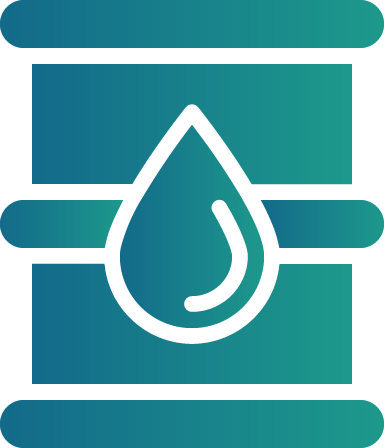
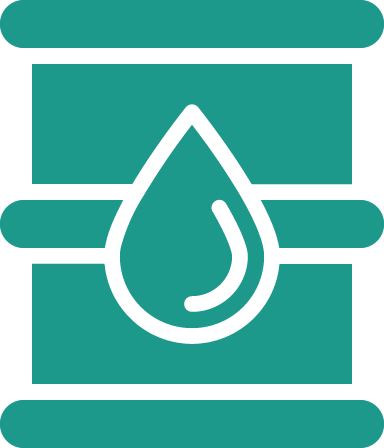
Haciendo nuevos cambios comos textos, imagenes, colores

diff --git a/index.html b/index.html
@@ -11,7 +11,7 @@
     <meta name="keywords" content="" />
     <meta name="author" content="Themesdesign" />
 
-    <link rel="shortcut icon" href="images/favicon.ico">
+    <link rel="shortcut icon" href="images/favicon.png">
 
     <!-- google font -->
     <link href="https://fonts.googleapis.com/css?family=Raleway:400,500,600,700" rel="stylesheet">
@@ -47,8 +47,8 @@
         <div class="container">
             <!-- LOGO -->
             <a class="navbar-brand logo text-uppercase" href="index.html">
-                    <img src="images/logopetram-letrablanca.png" class="logo-light" alt="" height=50">
-                    <img src="images/logopetram.png" class="logo-dark" alt="" height="50">
+                    <img src="images/isotipo-blanco.png" class="logo-light" alt="" height=50">
+                    <img src="images/Asset6.png" class="logo-dark" alt="" height="50">
                 </a>
             <button class="navbar-toggler" type="button" data-toggle="collapse" data-target="#navbarCollapse" aria-controls="navbarCollapse" aria-expanded="false" aria-label="Toggle navigation">
                 <i class="mdi mdi-menu"></i>
@@ -157,7 +157,10 @@
                 <div class="col-lg-4">
                     <div class="agency-services-box text-center p-3">
                         <div class="agency-services-icon mt-3">
-                            <img src="images/Asset2.png" alt="" style="width: 70px;">
+                            <a href="javascript:void(0);">
+                                <img src="images/Asset3.png" alt="" style="width: 70px;" class="imagen">
+                            </a>
+                            
                         </div>
                         <h5 class="f-15 mt-4 text-uppercase letter-spacing_2">Well log analysis</h5>
                         <p class="mt-4 text-muted">Consectetur adipisci a numquam tempora incidunt labore dolore magnam auam quaerat voluptatem.</p>
@@ -167,7 +170,9 @@
                 <div class="col-lg-4">
                     <div class="agency-services-box text-center p-3">
                         <div class="agency-services-icon mt-3">
-                            <img src="images/Asset1.png" alt="" style="width: 50px;">
+                            <a href="javascript:void(0);">
+                                <img src="images/Asset1.png" alt="" style="width: 50px;" class="imagen">
+                            </a>
                         </div>
                         <h5 class="f-15 mt-4 text-uppercase letter-spacing_2">Pre-stack depth migration</h5>
                         <p class="mt-4 text-muted">Consectetur adipisci a numquam tempora incidunt labore dolore magnam auam quaerat voluptatem.</p>
@@ -177,7 +182,9 @@
                 <div class="col-lg-4">
                     <div class="agency-services-box text-center p-3">
                         <div class="agency-services-icon mt-3">
-                            <img src="images/Asset3.png" alt="" style="width: 90px;">
+                            <a href="javascript:void(0);">
+                                <img src="images/Asset2.png" alt="" style="width: 90px;" class="imagen">
+                            </a>
                         </div>
                         <h5 class="f-15 mt-4 text-uppercase letter-spacing_2">Fracture Intensity maps.</h5>
                         <p class="mt-4 text-muted">Consectetur adipisci a numquam tempora incidunt labore dolore magnam auam quaerat voluptatem.</p>
@@ -300,8 +307,8 @@
                 <div class="portfolioContainer row">
                     <div class="col-lg-4 natural personal">
                         <div class="portfolio-box">
-                            <a class="mfp-image" href="images/works/work-1.jpg" title="">
-                                <img src="images/works/work-1.jpg" class="img-fluid" alt="">
+                            <a class="mfp-image" href="images/works/work-1.png" title="">
+                                <img src="images/works/work-1.png" class="img-fluid" alt="">
                             </a>
                             <div class="gallary-title bg-light p-4">
                                 <h6 class="text-uppercase"><a href="#" class="f-15 letter-spacing_2">The Usefulness</a></h6>
@@ -313,8 +320,8 @@
 
                     <div class="col-lg-4 creative personal photography">
                         <div class="portfolio-box">
-                            <a class="mfp-image" href="images/works/work-2.jpg" title="">
-                                <img src="images/works/work-2.jpg" class="img-fluid" alt="">
+                            <a class="mfp-image" href="images/works/work-2.png" title="">
+                                <img src="images/works/work-2.png" class="img-fluid" alt="">
                             </a>
 
                             <div class="gallary-title bg-light p-4">
@@ -327,8 +334,8 @@
 
                     <div class="col-lg-4 natural creative">
                         <div class="portfolio-box">
-                            <a class="mfp-image" href="images/works/work-3.jpg" title="">
-                                <img src="images/works/work-3.jpg" class="img-fluid" alt="">
+                            <a class="mfp-image" href="images/works/work-3.png" title="">
+                                <img src="images/works/work-3.png" class="img-fluid" alt="">
                             </a>
 
                             <div class="gallary-title bg-light p-4">
@@ -341,8 +348,8 @@
 
                     <div class="col-lg-4 personal photography">
                         <div class="portfolio-box">
-                            <a class="mfp-image" href="images/works/work-4.jpg" title="">
-                                <img src="images/works/work-4.jpg" class="img-fluid" alt="">
+                            <a class="mfp-image" href="images/works/work-4.png" title="">
+                                <img src="images/works/work-4.png" class="img-fluid" alt="">
                             </a>
 
                             <div class="gallary-title bg-light p-4">
@@ -355,8 +362,8 @@
 
                     <div class="col-lg-4 creative photography">
                         <div class="portfolio-box">
-                            <a class="mfp-image" href="images/works/work-5.jpg" title="">
-                                <img src="images/works/work-5.jpg" class="img-fluid" alt="">
+                            <a class="mfp-image" href="images/works/work-5.png" title="">
+                                <img src="images/works/work-5.png" class="img-fluid" alt="">
                             </a>
 
                             <div class="gallary-title bg-light p-4">
@@ -369,8 +376,8 @@
 
                     <div class="col-lg-4 natural creative">
                         <div class="portfolio-box">
-                            <a class="mfp-image" href="images/works/work-6.jpg" title="">
-                                <img src="images/works/work-6.jpg" class="img-fluid" alt="">
+                            <a class="mfp-image" href="images/works/work-6.png" title="">
+                                <img src="images/works/work-6.png" class="img-fluid" alt="">
                             </a>
 
                             <div class="gallary-title bg-light p-4">
@@ -416,70 +423,56 @@
             <div class="row justify-content-center">
                 <div class="col-lg-8">
                     <div class="home-title text-center">
-                        <h2 class="home-title-title letter-spacing_4 text-uppercase">Smart Team</h2>
+                        <h2 class="home-title-title letter-spacing_4 text-uppercase">Management Team</h2>
                         <p class="home-title-desc text-muted mt-4">Pellentesque habitant morbi tristique senectus malesuada fames turpis egestas duis dignissim finibus commodo nibh malesuada sollis diam.</p>
                     </div>
                 </div>
             </div>
 
             <div class="row mt-5 pt-3">
-                <div class="col-lg-4">
+                <div class="col-lg-6">
                     <div class="team p-4 text-center mt-4">
                         <div class="agency-team-img">
                             <img src="images/users/user-1.jpg" class="img-fluid rounded-circle" alt="">
                         </div>
-                        <h5 class="mt-4 text-uppercase letter-spacing_2 f-15">Rayner Díaz</h5>
-                        <p class="text-muted f-13">Chief Executive Officer</p>
+                        <h5 class="mt-4 text-uppercase letter-spacing_2 f-15 turquesa">Rayner Díaz</h5>
+                        <p class="text-muted f-13">Chief Executive Officer / Founder</p>
                         <p class="text-muted mb-0">Accomplished Drilling Engineer from Oklahoma State University Drilling School with 21 years of experience as Field Engineer</p>
                     </div>
                 </div>
 
-                <div class="col-lg-4">
+                <div class="col-lg-6">
                     <div class="team p-4 text-center mt-4">
                         <div class="agency-team-img">
                             <img src="images/users/user-2.jpg" class="img-fluid rounded-circle" alt="">
                         </div>
-                        <h5 class="mt-4 text-uppercase letter-spacing_2 f-15">Andrey Ortega</h5>
+                        <h5 class="mt-4 text-uppercase letter-spacing_2 f-15 turquesa">Andrey Ortega</h5>
                         <p class="text-muted f-13">Chief Operating Officer</p>
                         <p class="text-muted mb-0">He specialized in the area of multi-component multi-azimuth seismic data processing and its applications to fractured reservoir characterization.</p>
                     </div>
                 </div>
-
-                <div class="col-lg-4">
+            </div>
+            <div class="row mt-5 pt-3">
+                <div class="col-lg-6">
                     <div class="team p-4 text-center mt-4">
                         <div class="agency-team-img">
                             <img src="images/users/user-3.jpg" class="img-fluid rounded-circle" alt="">
                         </div>
-                        <h5 class="mt-4 text-uppercase letter-spacing_2 f-15">Eddie Alldredge</h5>
-                        <p class="text-muted f-13">Business Development</p>
-                        <p class="text-muted mb-0">Develop and execute annual sales plans and strategies for North America South America Brazil, Colombia, Ecuador.</p>
-                    </div>
-                </div>
-
-            </div>
-            <div class="row mt-5 pt-3">
-                <div class="col-lg-4">
-                    <div class="team p-4 text-center mt-4">
-                        <div class="agency-team-img">
-                            <img src="images/users/user-1.jpg" class="img-fluid rounded-circle" alt="">
-                        </div>
-                        <h5 class="mt-4 text-uppercase letter-spacing_2 f-15">Samantha Reynolds</h5>
-                        <p class="text-muted f-13">Safety Coordinator</p>
+                        <h5 class="mt-4 text-uppercase letter-spacing_2 f-15 turquesa">Eduardo Sacco</h5>
+                        <p class="text-muted f-13">Chief Financial Officer</p>
                         <p class="text-muted mb-0">Accomplished Drilling Engineer from Oklahoma State University Drilling School with 21 years of experience as Field Engineer</p>
                     </div>
                 </div>
-
-                <div class="col-lg-4">
+                <div class="col-lg-6">
                     <div class="team p-4 text-center mt-4">
                         <div class="agency-team-img">
-                            <img src="images/users/user-2.jpg" class="img-fluid rounded-circle" alt="">
+                            <img src="images/users/user-3.jpg" class="img-fluid rounded-circle" alt="">
                         </div>
-                        <h5 class="mt-4 text-uppercase letter-spacing_2 f-15">Tomás Finol</h5>
-                        <p class="text-muted f-13">Chief Financial Officer</p>
-                        <p class="text-muted mb-0">He specialized in the area of multi-component multi-azimuth seismic data processing and its applications to fractured reservoir characterization.</p>
+                        <h5 class="mt-4 text-uppercase letter-spacing_2 f-15 turquesa">Erich Croes Alldredge</h5>
+                        <p class="text-muted f-13">Chief executive officer / Director</p>
+                        <p class="text-muted mb-0">Develop and execute annual sales plans and strategies for North America South America Brazil, Colombia, Ecuador.</p>
                     </div>
                 </div>
-
             </div>
         </div>
     </section>
@@ -596,7 +589,8 @@
             <div class="row mt-2">
                 <div class="col-lg-12">
                     <div class="agency-footer-alt-content p-4">
-                        <p class="copy-right text-center mb-0">Petram Oil & Gas | All rights reserved. 2019 </p>
+                        <img src="images/isotipo-blanco.png" alt="" class="d-block mx-auto" style="width: 50px;">
+                        <p class="copy-right text-center mb-0 mt-3">Petram Oil & Gas | All rights reserved. 2019 </p>
                     </div>
                 </div>
             </div>

diff --git a/css/style.css b/css/style.css
@@ -113,7 +113,7 @@ button:focus {
 }
 
 .bg-overlay {
-    background-color: rgba(16, 16, 25, 0.7)!important;
+    background-color: rgba(16, 16, 25, 0.5)!important;
     position: absolute;
     top: 0;
     left: 0;
@@ -200,7 +200,7 @@ button:focus {
 
 .btn-dark-custom {
     color: #ffffff;
-    background-color: #323232 !important;
+    background-color: #1d998a !important;
 }
 
 .btn-dark-custom:hover,
@@ -696,7 +696,7 @@ button:focus {
 
 .portfolioFilter a:hover,
 .portfolioFilter a.current {
-    background-color: #323232;
+    background-color: #1d998b;
     color: #fff !important;
     border-radius: 3px;
 }
@@ -710,7 +710,7 @@ button:focus {
 }
 
 .gallary-title a {
-    color: #323232;
+    color: #1d998b;
 }
 
 
@@ -3449,4 +3449,13 @@ textarea.form-control {
     .business-carousel .carousel-inner {
         min-height: 600px;
     }
+}
+
+.imagen:hover {
+    filter: grayscale(100%);
+    transition:all .4s ease-in-out;
+}
+
+.turquesa{
+    color: #1d998b;
 }

diff --git a/about-us.html b/about-us.html
@@ -47,8 +47,8 @@
         <div class="container">
             <!-- LOGO -->
             <a class="navbar-brand logo text-uppercase" href="index.html">
-                    <img src="images/logopetram-letrablanca.png" class="logo-light" alt="" height=50">
-                    <img src="images/logopetram.png" class="logo-dark" alt="" height="50">
+                    <img src="images/isotipo-blanco.png" class="logo-light" alt="" height=50">
+                    <img src="images/Asset6.png" class="logo-dark" alt="" height="50">
                 </a>
             <button class="navbar-toggler" type="button" data-toggle="collapse" data-target="#navbarCollapse" aria-controls="navbarCollapse" aria-expanded="false" aria-label="Toggle navigation">
                 <i class="mdi mdi-menu"></i>
